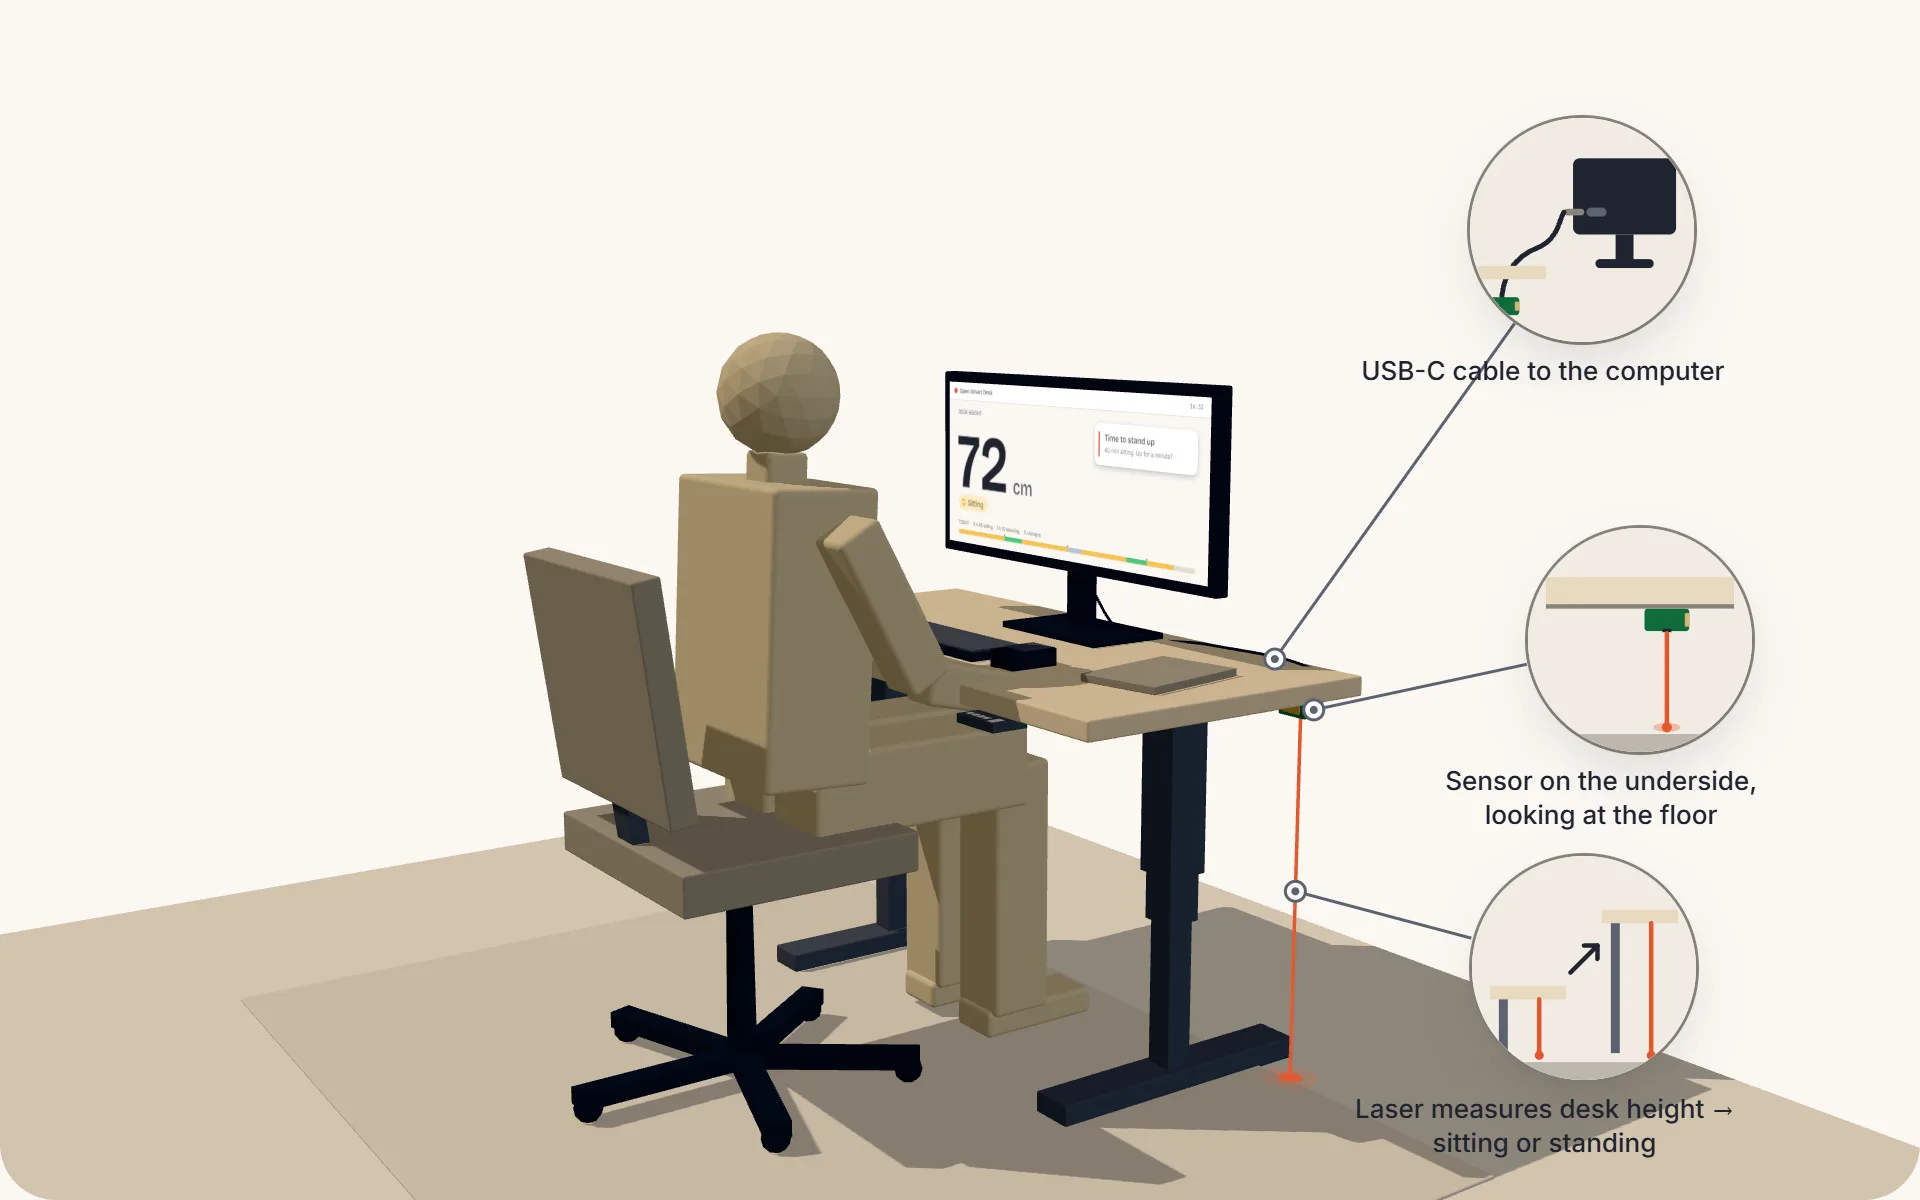
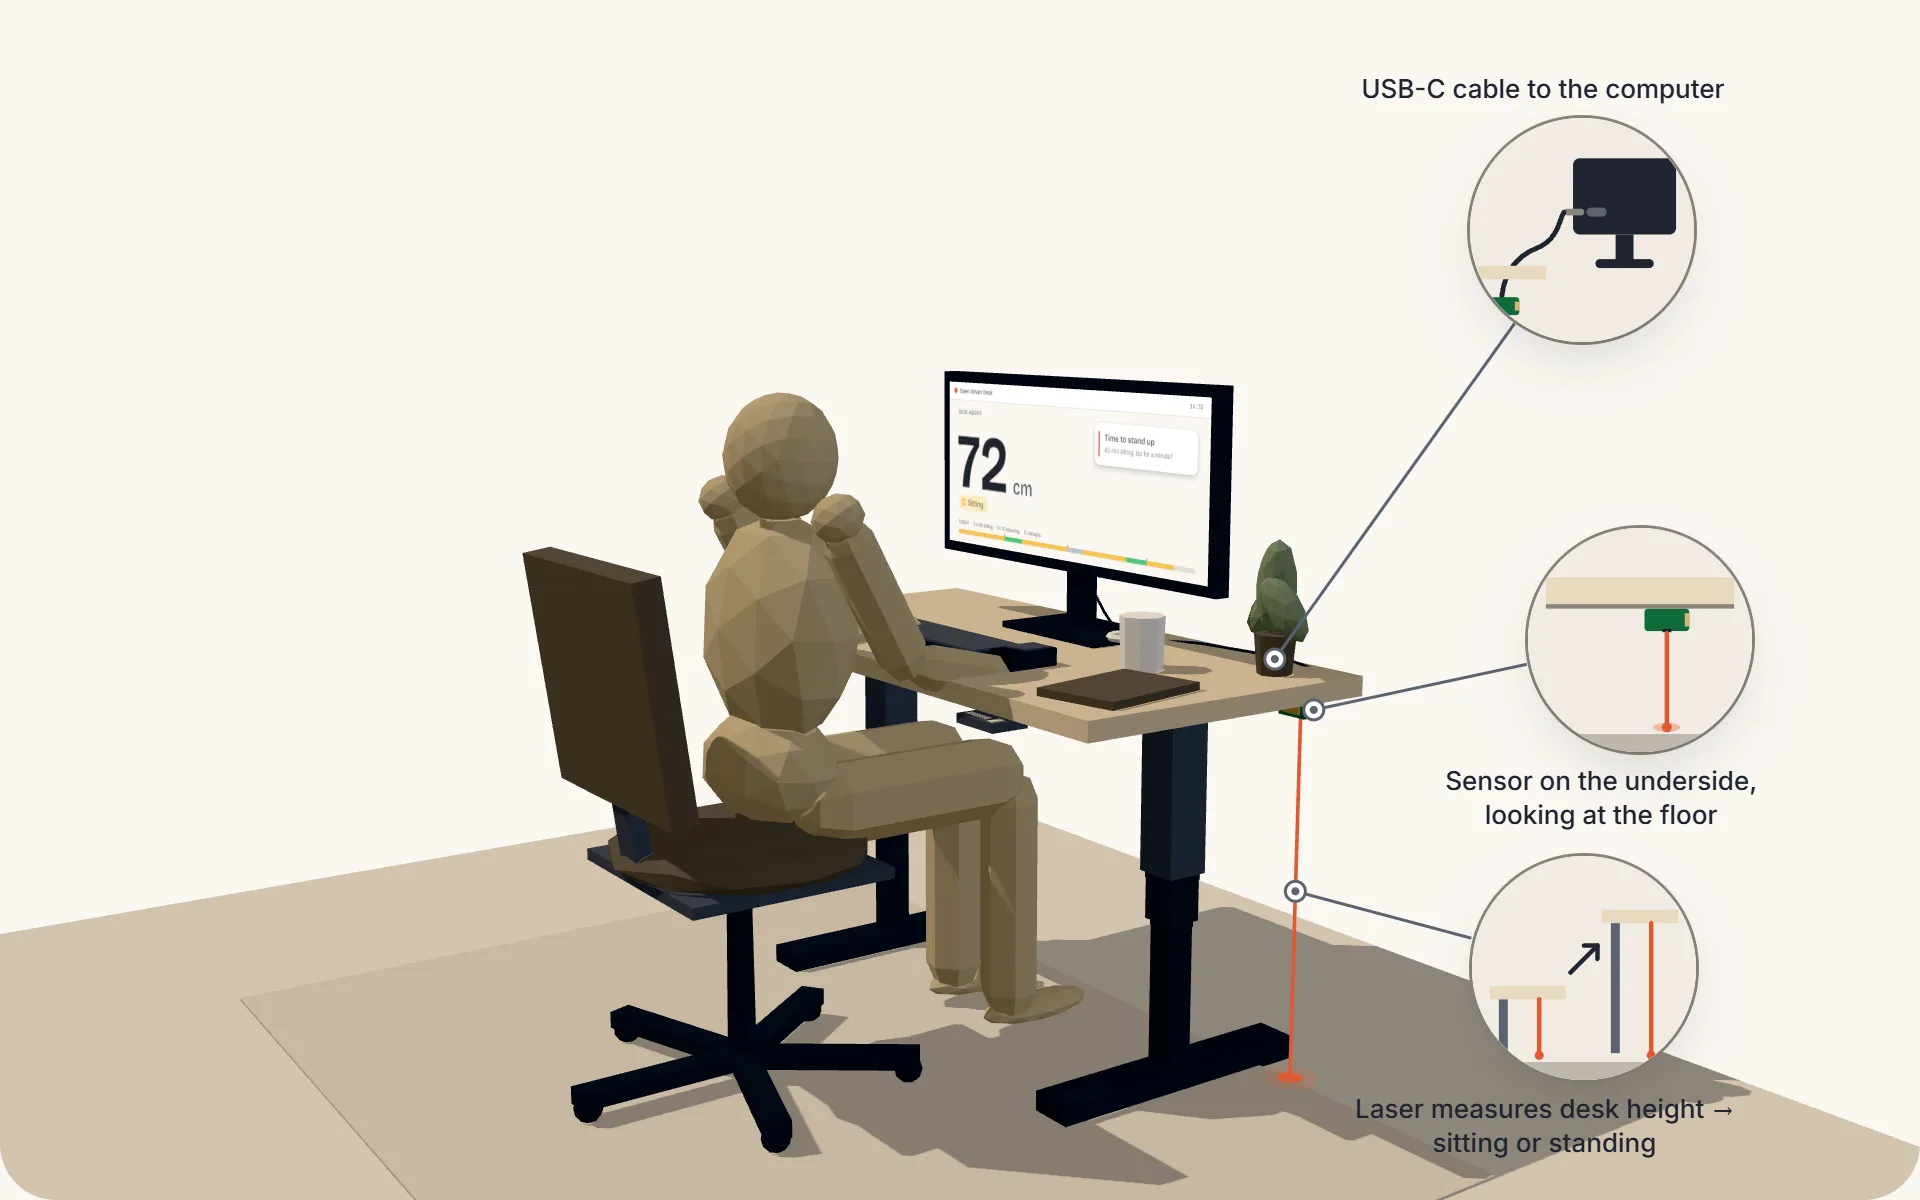
feat(scene): DeskScene v4 with toned columns and props
Each telescopic stage its own tone with a shadow band under the mouth
of the stage above; faceted seat cushion, cream 8-sided mug and a
small sage plant on the right of the desk; callout labels move to the
side the leader does not come from. Regenerate the WebP fallback.

diff --git a/astro/src/components/scene/desk/Desk.tsx b/astro/src/components/scene/desk/Desk.tsx
@@ -13,11 +13,14 @@ import { DESK } from "./dims";
 interface ColumnProps {
   x: number;
   underside: number;
-  color: string;
+  palette: ScenePalette;
 }
 
-/** One leg: foot + three nested stages, the bottom one thinnest. */
-function Column({ x, underside, color }: ColumnProps) {
+/** height of the dark band under each stage's mouth: the shadow the upper stage throws on the one below */
+const BAND_H = 0.012;
+
+/** One leg: foot + three nested stages, thinnest at the bottom, each its own tone, a shadow band under each mouth. */
+function Column({ x, underside, palette }: ColumnProps) {
   const z = DESK.columnZ;
   const { bottom, mid, top } = DESK.stage;
   const bottomLen = DESK.bottomStageTop - DESK.foot[1];
@@ -27,31 +30,14 @@ function Column({ x, underside, color }: ColumnProps) {
   const midLen = midTop - DESK.midStageBottom;
   return (
     <group position={[x, 0, z]}>
-      <Block size={DESK.foot} position={[0, DESK.foot[1] / 2, 0]} color={color} />
-      <Block
-        size={[bottom, bottomLen, bottom]}
-        position={[0, DESK.foot[1] + bottomLen / 2, 0]}
-        bevel="small"
-        color={color}
-      />
-      <Block
-        size={[mid, midLen, mid]}
-        position={[0, DESK.midStageBottom + midLen / 2, 0]}
-        bevel="small"
-        color={color}
-      />
-      <Block
-        size={[top, DESK.topStageLength, top]}
-        position={[0, topStageBottom + DESK.topStageLength / 2, 0]}
-        bevel="small"
-        color={color}
-      />
-      <Block
-        size={DESK.bracket}
-        position={[0, underside - DESK.bracket[1] / 2, 0]}
-        bevel="small"
-        color={color}
-      />
+      <Block size={DESK.foot} position={[0, DESK.foot[1] / 2, 0]} color={palette.stageBottom} />
+      <Block size={[bottom, bottomLen, bottom]} position={[0, DESK.foot[1] + bottomLen / 2, 0]} color={palette.stageBottom} />
+      <Block size={[mid, midLen, mid]} position={[0, DESK.midStageBottom + midLen / 2, 0]} color={palette.stageMid} />
+      <Block size={[top, DESK.topStageLength, top]} position={[0, topStageBottom + DESK.topStageLength / 2, 0]} color={palette.stageTop} />
+      {/* shadow bands: a hair wider than the stage below, just under the mouth of the stage above */}
+      <Block size={[bottom + 0.002, BAND_H, bottom + 0.002]} position={[0, DESK.midStageBottom - BAND_H / 2, 0]} color={palette.ink} castShadow={false} />
+      <Block size={[mid + 0.002, BAND_H, mid + 0.002]} position={[0, topStageBottom - BAND_H / 2, 0]} color={palette.ink} castShadow={false} />
+      <Block size={DESK.bracket} position={[0, underside - DESK.bracket[1] / 2, 0]} color={palette.stageTop} />
     </group>
   );
 }
@@ -74,13 +60,12 @@ function Paddle({ underside, palette }: { underside: number; palette: ScenePalet
   );
   return (
     <group>
-      <Block size={[0.1, 0.016, 0.07]} position={[x, underside - 0.008, bodyZ]} bevel="small" color={palette.frame} />
+      <Block size={[0.1, 0.016, 0.07]} position={[x, underside - 0.008, bodyZ]} color={palette.frame} />
       {[-0.036, -0.021, -0.006, 0.009].map((dx) => (
         <Block
           key={dx}
           size={[0.012, 0.005, 0.014]}
           position={[x + dx, buttonY, buttonZ]}
-          bevel="small"
           color={palette.line}
           castShadow={false}
         />
@@ -88,7 +73,6 @@ function Paddle({ underside, palette }: { underside: number; palette: ScenePalet
       <Block
         size={[0.014, 0.006, 0.026]}
         position={[x + 0.034, buttonY, buttonZ]}
-        bevel="small"
         color={palette.line}
         castShadow={false}
       />
@@ -111,13 +95,12 @@ export function Desk({ heightM, palette }: DeskProps) {
         position={[0, heightM - DESK.topThickness / 2, 0]}
         color={palette.deskTop}
       />
-      <Column x={-DESK.columnX} underside={underside} color={palette.frame} />
-      <Column x={DESK.columnX} underside={underside} color={palette.frame} />
+      <Column x={-DESK.columnX} underside={underside} palette={palette} />
+      <Column x={DESK.columnX} underside={underside} palette={palette} />
       {/* slim crossbar flush under the top, hidden from above (owner round 2) */}
       <Block
         size={[DESK.columnX * 2 - DESK.bracket[0], DESK.bracket[1], 0.04]}
         position={[0, underside - DESK.bracket[1] / 2, DESK.columnZ]}
-        bevel="small"
         color={palette.frame}
       />
       <Paddle underside={underside} palette={palette} />

diff --git a/astro/src/components/scene/desk/Props.tsx b/astro/src/components/scene/desk/Props.tsx
@@ -1,10 +1,11 @@
 /**
  * Desk props you can name without a label (DESIGN.md §8.6): keyboard with a
- * key plate, mouse, a cream mug with a handle, a closed notebook. All neutral:
- * colour is reserved for meaning (DESIGN.md §8.2).
+ * key plate, mouse, a faceted cream mug with a handle, a closed notebook and
+ * a small low-poly plant in a pot. Neutral except the plant's desaturated
+ * sage (`material.plant`): colour is reserved for meaning (DESIGN.md §8.2).
  */
 import type { ScenePalette } from "../scenePalette";
-import { Block, Rod } from "../kit";
+import { Blob, Block, Rod } from "../kit";
 import { DESK } from "./dims";
 
 export interface PropsProps {
@@ -17,37 +18,41 @@ export function DeskProps({ heightM, palette }: PropsProps) {
   return (
     <group position={[0, heightM, 0]}>
       {/* keyboard */}
-      <Block size={[0.36, 0.014, 0.13]} position={[-0.06, 0.007, front - 0.19]} bevel="small" color={palette.ink} />
+      <Block size={[0.36, 0.014, 0.13]} position={[-0.06, 0.007, front - 0.19]} color={palette.ink} />
       <Block
         size={[0.335, 0.005, 0.105]}
         position={[-0.06, 0.016, front - 0.19]}
-        bevel="small"
         color={palette.inkMuted}
         castShadow={false}
       />
       {/* mouse */}
-      <Block size={[0.06, 0.032, 0.1]} position={[0.2, 0.016, front - 0.18]} bevel="small" color={palette.ink} />
+      <Block size={[0.06, 0.032, 0.1]} position={[0.2, 0.016, front - 0.18]} color={palette.ink} />
       <Block
         size={[0.05, 0.004, 0.06]}
         position={[0.2, 0.033, front - 0.19]}
-        bevel="small"
         color={palette.inkMuted}
         castShadow={false}
       />
       {/* mug with handle */}
-      <group position={[-0.46, 0, front - 0.24]}>
+      <group position={[0.34, 0, front - 0.33]}>
         <Rod radius={0.037} radiusTop={0.04} length={0.095} position={[0, 0.0475, 0]} color={palette.surface} />
         <mesh position={[-0.05, 0.05, 0]} rotation={[Math.PI / 2, 0, 0]} castShadow>
-          <torusGeometry args={[0.024, 0.007, 6, 10]} />
+          <torusGeometry args={[0.024, 0.007, 5, 8]} />
           <meshLambertMaterial color={palette.surface} flatShading />
         </mesh>
+      </group>
+      {/* small plant: faceted pot, three stretched icosahedron leaves */}
+      <group position={[0.5, 0, -0.19]}>
+        <Rod radius={0.03} radiusTop={0.036} length={0.07} position={[0, 0.035, 0]} color={palette.fabric} />
+        <Blob size={[0.07, 0.17, 0.07]} position={[0, 0.15, 0]} rotation={[0.1, 0, -0.15]} color={palette.plant} />
+        <Blob size={[0.06, 0.13, 0.06]} position={[0.035, 0.12, 0.015]} rotation={[0.2, 0, 0.55]} color={palette.plant} />
+        <Blob size={[0.06, 0.12, 0.06]} position={[-0.03, 0.11, -0.02]} rotation={[-0.3, 0, -0.6]} color={palette.plant} />
       </group>
       {/* closed notebook */}
       <Block
         size={[0.16, 0.014, 0.22]}
-        position={[0.42, 0.007, 0.0]}
+        position={[0.47, 0.007, 0.13]}
         rotation={[0, 0.18, 0]}
-        bevel="small"
         color={palette.fabric}
       />
     </group>

diff --git a/astro/src/components/scene/desk/Chair.tsx b/astro/src/components/scene/desk/Chair.tsx
@@ -1,11 +1,11 @@
 /**
- * An office chair in the kit language (owner feedback item 10), kept quiet:
- * warm-neutral fabric seat and back, graphite spine, ink column and
- * five-star base (DESIGN.md §8.2 colour language). When the person stands,
+ * An office chair in the kit language, kept quiet: a faceted seat cushion
+ * (flattened icosahedron) on a graphite pan, a sharp fabric backrest on a
+ * graphite spine, ink column and five-star base (DESIGN.md §8.2). When the person stands,
  * the chair rolls back a little and turns, the way a pushed chair does.
  */
 import type { ScenePalette } from "../scenePalette";
-import { Block, Rod } from "../kit";
+import { Blob, Block, Rod } from "../kit";
 
 const SEAT_TOP = 0.47;
 const SEAT = [0.46, 0.07, 0.44] as const;
@@ -25,10 +25,12 @@ export function Chair({ t, palette }: ChairProps) {
   const columnLen = SEAT_TOP - SEAT[1] - 0.06;
   return (
     <group position={[0.02 * t, 0, z]} rotation={[0, yaw, 0]}>
-      <Block size={[...SEAT]} position={[0, SEAT_TOP - SEAT[1] / 2, 0]} color={palette.fabric} />
+      {/* faceted cushion: a flattened icosahedron over a thin sharp pan */}
+      <Blob size={[SEAT[0] + 0.02, SEAT[1] * 1.3, SEAT[2] + 0.02]} detail={1} position={[0, SEAT_TOP - SEAT[1] * 0.65, 0]} color={palette.fabric} />
+      <Block size={[SEAT[0] - 0.06, 0.02, SEAT[2] - 0.06]} position={[0, SEAT_TOP - SEAT[1] - 0.005, 0]} color={palette.frame} />
       {/* backrest on a short graphite spine that rises from the seat's rear edge */}
       <group position={[0, SEAT_TOP - 0.03, SEAT[2] / 2 - 0.03]} rotation={[0.14, 0, 0]}>
-        <Block size={[0.06, 0.16, 0.03]} position={[0, 0.06, 0.0]} bevel="small" color={palette.frame} />
+        <Block size={[0.06, 0.16, 0.03]} position={[0, 0.06, 0.0]} color={palette.frame} />
         <Block size={[...BACK]} position={[0, BACK[1] / 2 + 0.1, 0.0]} color={palette.fabric} />
       </group>
       <Rod radius={0.026} radiusTop={0.022} length={columnLen} position={[0, 0.06 + columnLen / 2, 0]} color={palette.ink} />
@@ -37,11 +39,8 @@ export function Chair({ t, palette }: ChairProps) {
         const r = 0.16;
         return (
           <group key={i} rotation={[0, -a, 0]}>
-            <Block size={[0.3, 0.03, 0.045]} position={[r, 0.045, 0]} bevel="small" color={palette.ink} />
-            <mesh position={[r + 0.13, 0.025, 0]} castShadow>
-              <icosahedronGeometry args={[0.025, 1]} />
-              <meshLambertMaterial color={palette.ink} flatShading />
-            </mesh>
+            <Block size={[0.3, 0.03, 0.045]} position={[r, 0.045, 0]} color={palette.ink} />
+            <Blob size={[0.05, 0.05, 0.05]} position={[r + 0.13, 0.025, 0]} color={palette.ink} />
           </group>
         );
       })}

diff --git a/astro/src/components/scene/callouts/Callouts.tsx b/astro/src/components/scene/callouts/Callouts.tsx
@@ -107,7 +107,9 @@ export function Callouts({ layout, visible, anchors, width, height }: CalloutsPr
     const dx = p.a.x - p.cx;
     const dy = p.a.y - p.cy;
     const len = Math.hypot(dx, dy) || 1;
-    return { ...p, edgeX: p.cx + (dx / len) * (r + 2), edgeY: p.cy + (dy / len) * (r + 2) };
+    // the label sits on the side the leader does not come from, so the line never crosses text
+    const labelAbove = dy > 0.35 * Math.abs(dx) && p.cy - r - 44 > 0;
+    return { ...p, labelAbove, edgeX: p.cx + (dx / len) * (r + 2), edgeY: p.cy + (dy / len) * (r + 2) };
   });
 
   return (
@@ -140,10 +142,11 @@ export function Callouts({ layout, visible, anchors, width, height }: CalloutsPr
               left: p.cx - r,
               top: p.cy - r,
               display: "flex",
-              flexDirection: "column",
+              flexDirection: p.labelAbove ? "column-reverse" : "column",
               alignItems: "center",
               gap: 6,
               width: CIRCLE_PX,
+              ...(p.labelAbove ? { top: "auto", bottom: height - (p.cy + r) } : {}),
             }}
           >
             <Inset id={p.spec.id} />

diff --git a/astro/src/components/scene/desk/Sensor.tsx b/astro/src/components/scene/desk/Sensor.tsx
@@ -76,19 +76,17 @@ export function Sensor({ heightM, palette, monitorZ, breathe }: SensorProps) {
   return (
     <group>
       <group position={[SENSOR_X, boxY, SENSOR_Z]}>
-        <Block size={BOX} bevel="small" color={palette.pcb} />
+        <Block size={BOX} color={palette.pcb} />
         {/* copper pads on the two faces the camera sees: the "honest PCB" detail */}
         <Block
           size={[0.004, 0.016, 0.03]}
           position={[BOX[0] / 2 + 0.001, 0, 0]}
-          bevel="small"
           color={palette.copper}
           castShadow={false}
         />
         <Block
           size={[0.04, 0.016, 0.004]}
           position={[0, 0, BOX[2] / 2 + 0.001]}
-          bevel="small"
           color={palette.copper}
           castShadow={false}
         />
@@ -96,7 +94,6 @@ export function Sensor({ heightM, palette, monitorZ, breathe }: SensorProps) {
         <Block
           size={[0.012, 0.003, 0.012]}
           position={[0, -BOX[1] / 2 - 0.001, 0]}
-          bevel="small"
           color={palette.ink}
           castShadow={false}
         />

diff --git a/astro/src/components/scene/desk/Monitor.tsx b/astro/src/components/scene/desk/Monitor.tsx
@@ -38,8 +38,8 @@ export function Monitor({ heightM, state, heightCm, palette }: MonitorProps) {
 
   return (
     <group position={[0, 0, MONITOR.z]}>
-      <Block size={MONITOR.base} position={[0, baseY, 0]} bevel="small" color={palette.ink} />
-      <Block size={MONITOR.neck} position={[0, neckY, 0]} bevel="small" color={palette.ink} />
+      <Block size={MONITOR.base} position={[0, baseY, 0]} color={palette.ink} />
+      <Block size={MONITOR.neck} position={[0, neckY, 0]} color={palette.ink} />
       <group position={[0, bodyY, 0.02]}>
         <Block size={MONITOR.body} color={palette.ink} />
         <mesh position={[0, 0, MONITOR.body[2] / 2 + 0.001]}>
